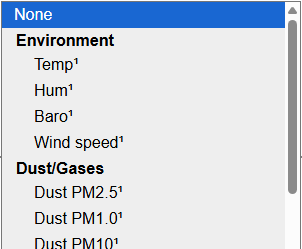
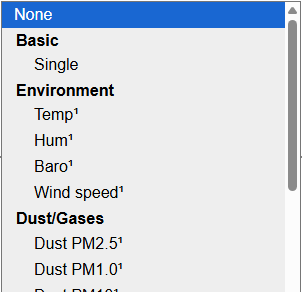
[ValueTypes] Update documentation

Changed region(s): [[0.0, 0.0, 1.0, 0.506], [0.0298, 0.5341, 0.4172, 1.0], [0.9536, 0.6466, 0.9834, 0.7871]]

diff --git a/docs/source/Plugin/P033.rst b/docs/source/Plugin/P033.rst
@@ -71,6 +71,21 @@ For example "Temp / Hum / Baro" are obviously intended to mimic the well known B
 
 Basic data types like "Single", "Dual", "Triple", "Quad" are intended to set resp. 1 ... 4 ``float`` values.
 
+This selector is using a categorized display when the build includes this enhanced selector (ESP32 only):
+
+.. image:: P033_OutputDataTypeOptions.png
+
+Available options, grouped per category:
+
+**Basic**: ``Single, Dual, Tripple, Quad``
+
+**Environment**: ``Temp¹, Hum¹, Baro¹, Wind¹``
+
+**Other**: ``Switch¹, Dimmer, String, UInt32 (1x), UInt32 (2x), UInt32 (3x), UInt32 (4x),`` ``Int32 (1x), Int32 (2x), Int32 (3x), Int32 (4x), UInt64 (1x), UInt64 (2x),`` ``Int64 (1x), Int64 (2x), Double (1x), Double (2x)``
+
+Value Types marked with ``¹`` are supported for use in MQTT AutoDiscovery.
+
+
 Extended Output Data Types
 ^^^^^^^^^^^^^^^^^^^^^^^^^^
 

diff --git a/docs/source/Plugin/_Plugin.rst b/docs/source/Plugin/_Plugin.rst
@@ -273,6 +273,8 @@ The options included here are all possible value types supported by ESPEasy that
 
 Available options, grouped per category:
 
+**Basic**: ``Single``
+
 **Environment**: ``Temp¹, Hum¹, Baro¹, Wind speed¹``
 
 **Dust/Gases**: ``Dust PM2.5¹, Dust PM1.0¹, Dust PM10¹, (e)CO2¹, TVOC¹, AQI¹, NOx¹``
@@ -285,7 +287,7 @@ Available options, grouped per category:
 
 **Light**: ``Lux¹, UV¹, UV Index¹, IR¹, Red¹, Green¹, Blue¹, Color temperature¹``
 
-**Other**: ``Single, Switch¹, Switch (inv.)¹, Dimmer, String, UInt32 (1x), Int32 (1x), UInt64 (1x), Int64 (1x), Double (1x)``
+**Other**: ``Switch¹, Switch (inv.)¹, Dimmer, String, UInt32 (1x), Int32 (1x), UInt64 (1x), Int64 (1x), Double (1x)``
 
 Value Types marked with ``¹`` are supported for use in MQTT AutoDiscovery.
 
